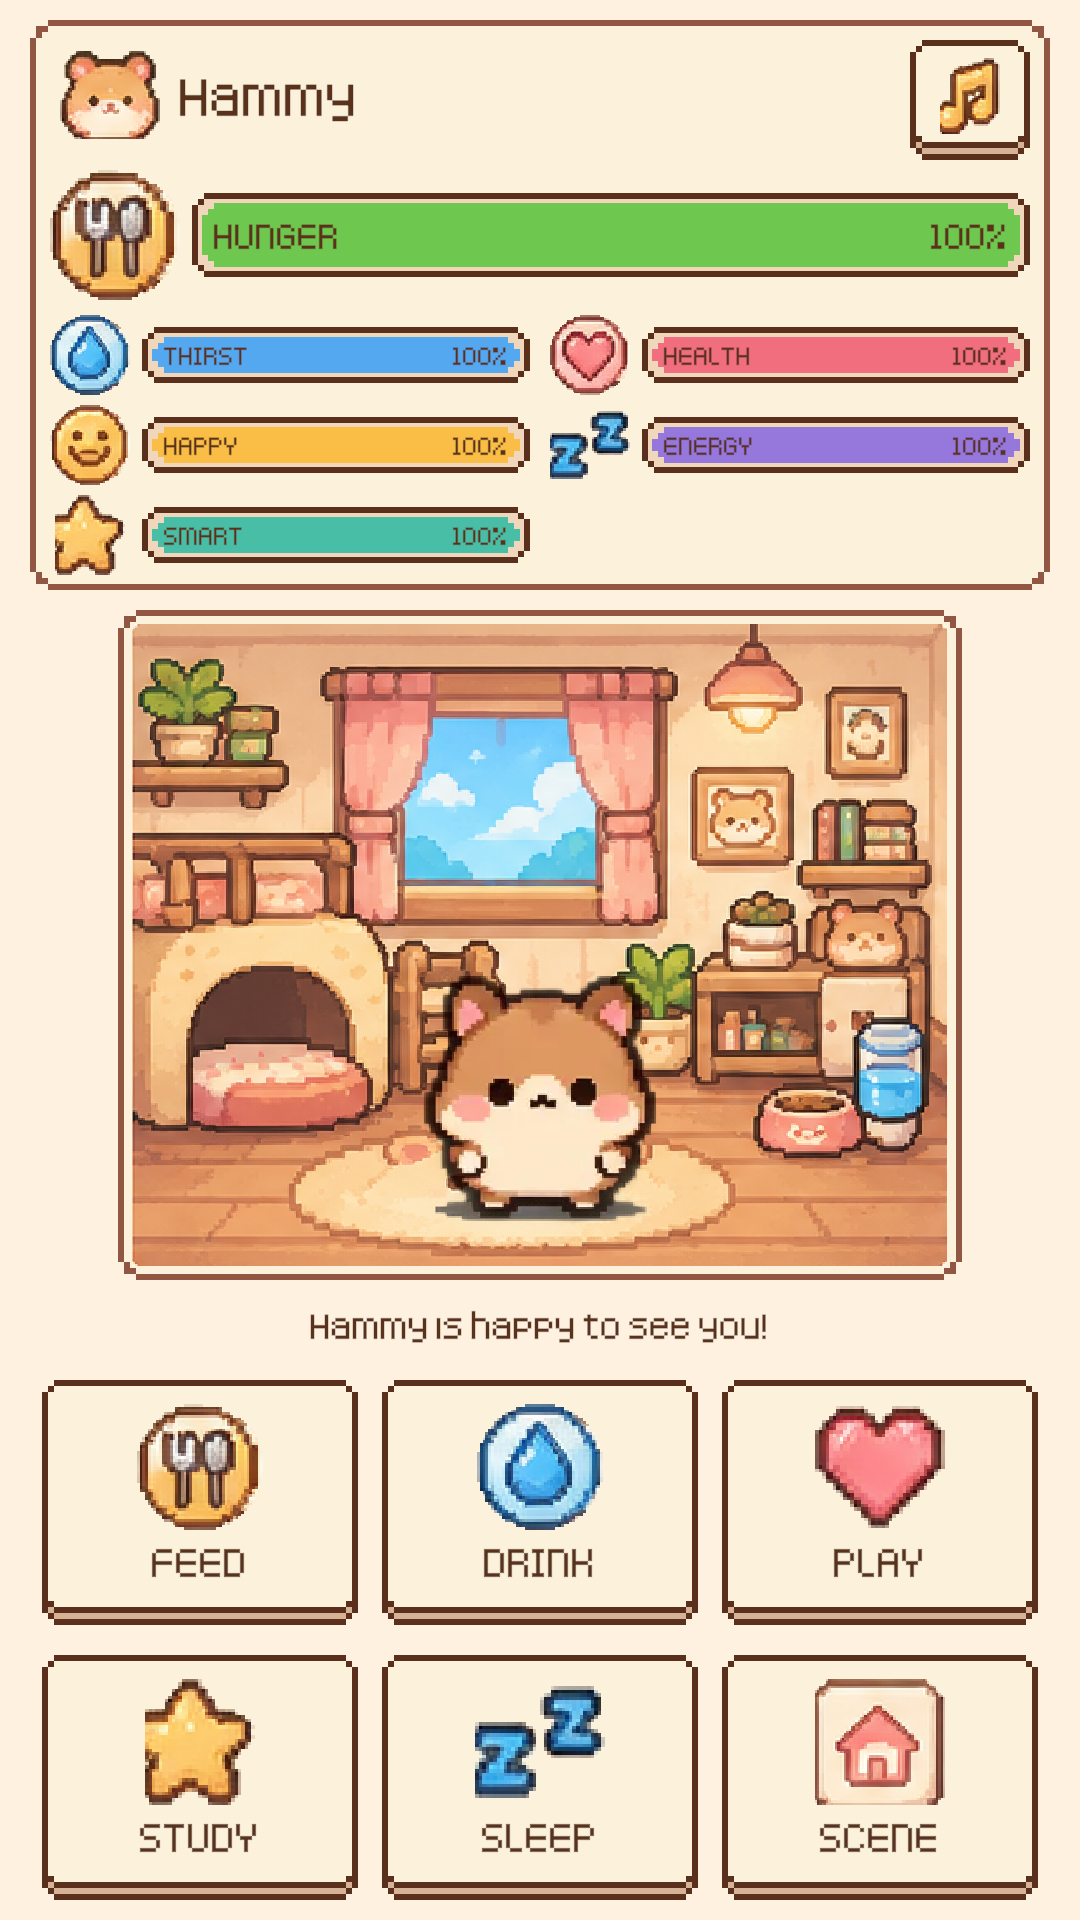
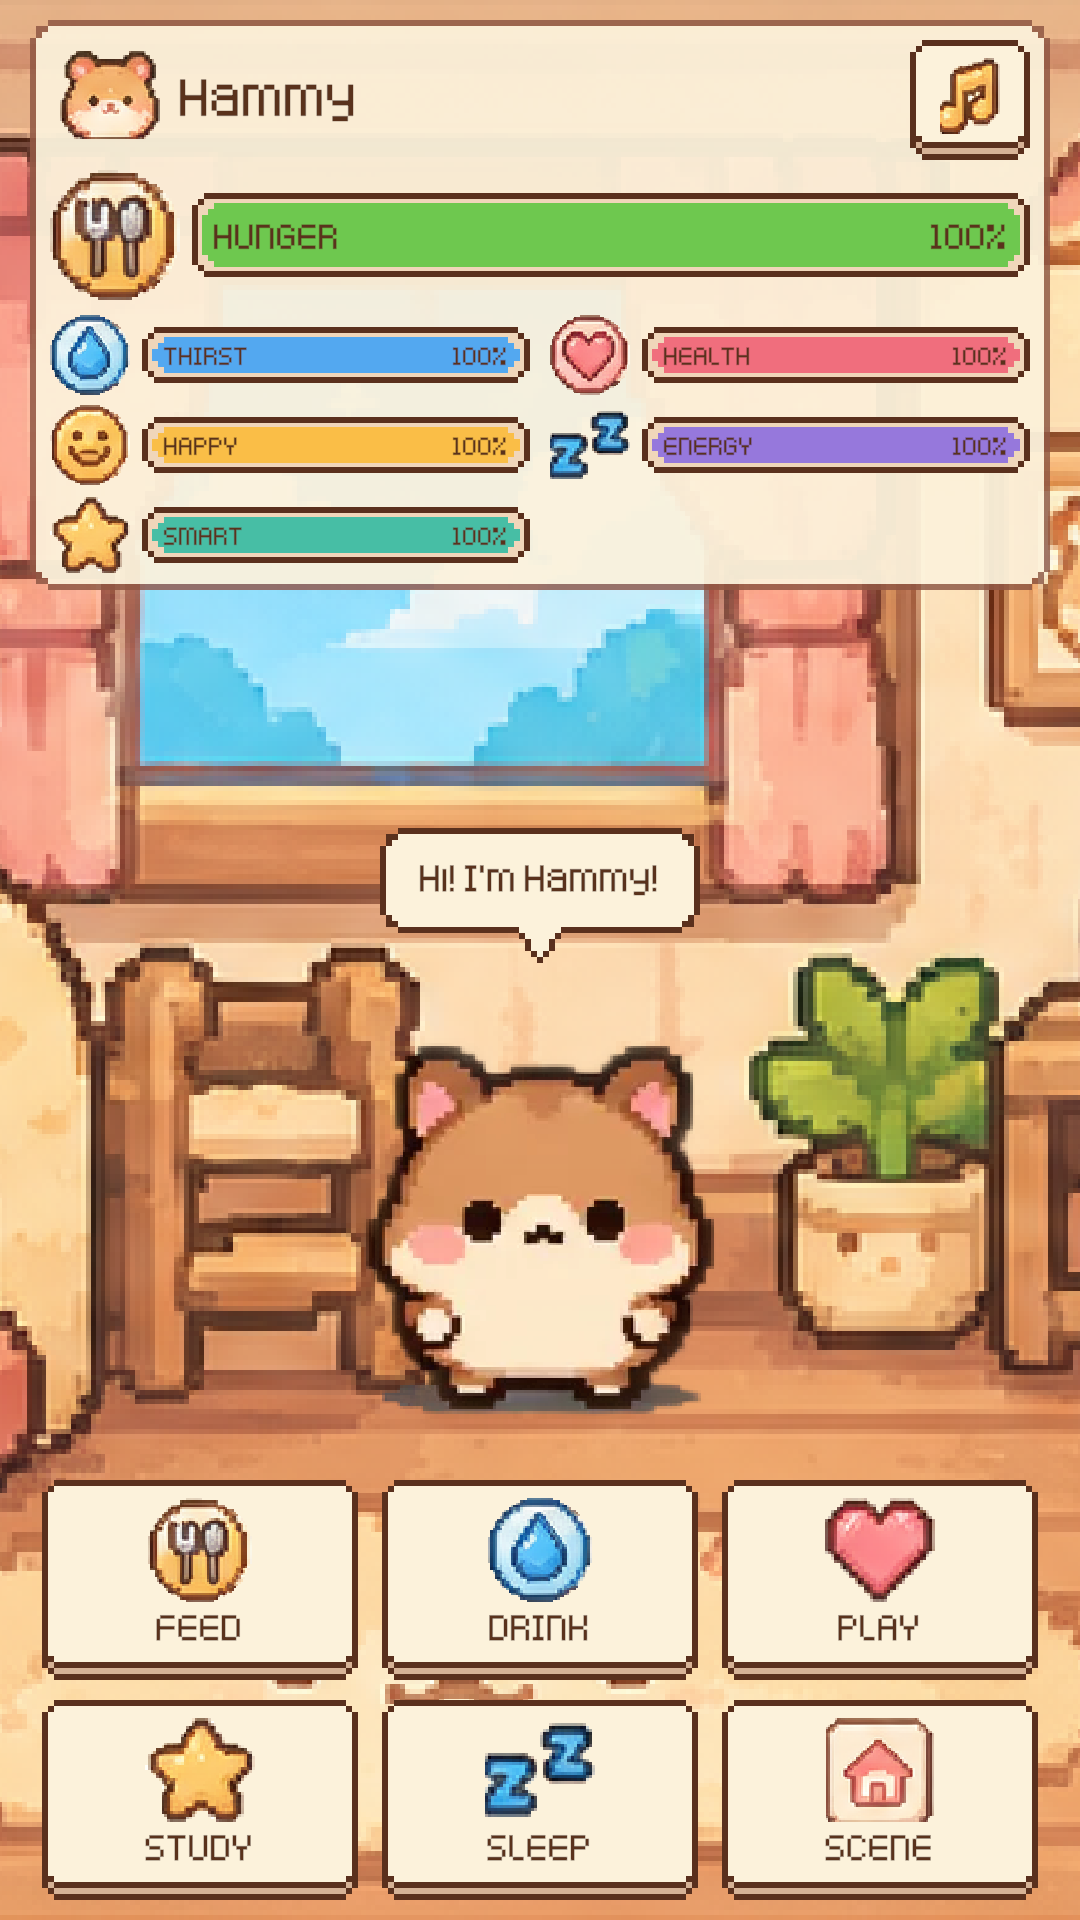
Update README and screenshot for full-screen layout

diff --git a/README.md b/README.md
@@ -33,8 +33,11 @@ and it gets **sick**.
   sick. A game-over card with the crying hamster and a **Restart** button appears.
 - **Sleep** restores Energy over time (4 per second) and slows the other stats. The pet wakes up by
   itself when Energy is full, or when you tap Sleep again or do anything else.
-- **Scene button:** cycles through 6 pixel-art backgrounds (default: cozy home).
-- **Mood line** under the scene describes what the pet is doing.
+- **Full-screen scenes:** the background fills the whole screen behind the UI. The **Scene** button
+  cycles through 6 pixel-art backgrounds (default: cozy home). The stats sit at the top and the
+  buttons at the bottom, leaving the middle clear so nothing covers the pet.
+- **Speech bubble** above the pet's head reacts to every action ("Yum yum!", "Too tired to study...").
+  Messages fade after a few seconds; warnings like **"I'm HANGRY! Feed me!"** stay until fixed.
 - *Planned:* animated emotes for every state, a sound for every action and emote, a mute toggle,
   save/load, and Sleep switching to the moonlit bedroom with the scene dimmed.
 
@@ -90,8 +93,9 @@ Assets/
     UI/UIManager.cs   owns all UI: stat bars, buttons, mood text; raises ActionPressed / MutePressed
     UI/StatBar.cs     one 0-100 meter (fixed color or gradient)
     UI/PressBounce.cs squash-and-spring feedback on button press
+    UI/SpeechBubble.cs  pop-in speech bubble above the pet (normal or sticky messages)
     UI/SafeArea.cs    keeps UI clear of notches and cut-outs
-    World/BackgroundSwitcher.cs  Scene button cycling + temporary override (used by Sleep)
+    World/BackgroundSwitcher.cs  full-screen background: Scene button cycling + temporary override (used by Sleep)
     Pet/PetStats.cs        the six stats: decay, actions, sleep, health, hangry, sick
     Pet/PetStatsConfig.cs  ScriptableObject with all tuning numbers
     GameManager.cs         wires buttons -> stats and stats -> UI (bars, hangry, game over)
@@ -114,7 +118,8 @@ will be listed here with its source and license._
 | Asset | Source | License |
 |-------|--------|---------|
 | Hamster sprites, backgrounds, props, UI sprites | Supplied by the project owner (tamagotchi asset pack) | Project owner's own assets |
-| `Assets/Art/UI/Icons/*`, `Assets/Art/UI/Generated/*` | Derived from / drawn to match the pack by `Tools/make_ui_sprites.py` | Same as above |
+| `Assets/Art/UI/Icons/*`, `Assets/Art/UI/Generated/*` (incl. speech bubble) | Derived from / drawn to match the pack by `Tools/make_ui_sprites.py` | Same as above |
+| `Assets/Art/UI/Buttons/star.png` | Re-cut from the pack's `Source/complete_generated_asset_sheet.png` (the pack's own `star.png` is clipped) | Same as above |
 | `Assets/Art/Fonts/KenneyPixel.ttf` | [Kenney Fonts](https://kenney.nl/assets/kenney-fonts) by Kenney | CC0 1.0 (`KenneyFonts-License.txt`) |
 | `Assets/TextMesh Pro/*` (LiberationSans etc.) | Unity TextMesh Pro essential resources | Unity Companion License / SIL OFL (LiberationSans) |
 
@@ -165,7 +170,7 @@ will be listed here with its source and license._
    **Scale** slider if it's too big.
 8. Press **▶ Play** (top center).
 9. Try it:
-   - **FEED / DRINK / PLAY / STUDY:** the bars change and the mood line updates.
+   - **FEED / DRINK / PLAY / STUDY:** the bars change and the speech bubble above the hamster reacts.
    - **SLEEP:** the Energy bar refills; tap again to wake up.
    - **SCENE:** the background changes.
    - To see **hangry** and **sick** quickly, use demo mode (see *Tuning the stats*).
